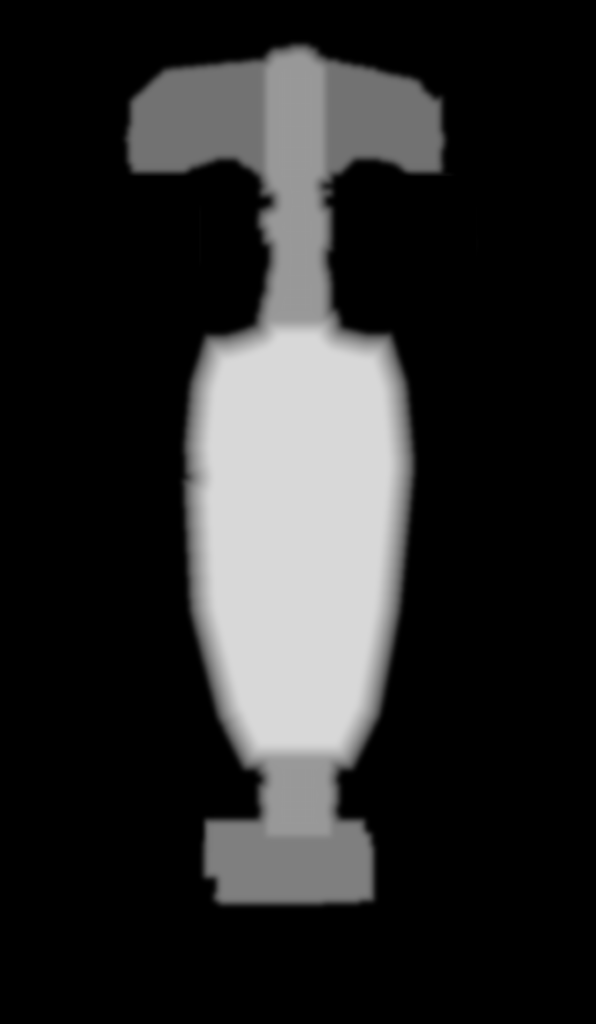
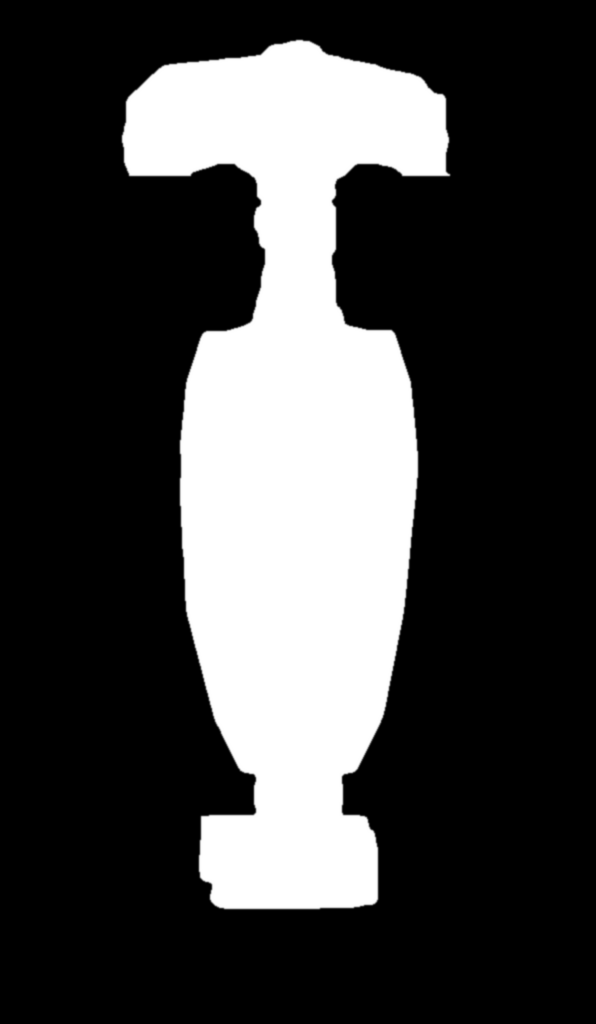
Crisp LEGO on the poster (no smudges) and more realistic LEGO pieces
- Relief maps rebuilt from the LEGO cutout silhouette as a near-vertical
  step instead of a soft ramp, so the photo no longer smears into blurry
  halos around the car; the LEGO sits on the poster like the real model
  in the reference videos, with a new soft drop shadow layer
  (<model>-sombra.png). The intro LEGO now stops exactly at relief
  height when it slots in, so it no longer intersects the poster.
- Bricks and plates are built like real parts: top, four walls and an
  open underside with anti-studs tubes, lathed studs with a rounded top
  edge, and the original smooth normals kept (no faceting). Pieces use
  a glossier ABS-like physical material with clearcoat.

Claude-Session: https://claude.ai/code/session_0152wLRBmtu3EhAGdcuZqTLU

Changed region(s): [[0.1812, 0.0312, 0.755, 0.9062]]

diff --git a/storefront-lego-f1/src/three/legoPieces.js b/storefront-lego-f1/src/three/legoPieces.js
@@ -17,38 +17,74 @@ function prep(g) {
   return out
 }
 
+// Stud con el borde de arriba redondeado (perfil torneado, como el real)
+const STUD_PROFILE = [
+  new THREE.Vector2(0, 0),
+  new THREE.Vector2(STUD_R, 0),
+  new THREE.Vector2(STUD_R, STUD_H - 0.05),
+  new THREE.Vector2(STUD_R - 0.015, STUD_H - 0.015),
+  new THREE.Vector2(STUD_R - 0.05, STUD_H),
+  new THREE.Vector2(0, STUD_H),
+]
 function studs(cols, rows, top) {
   const parts = []
   for (let i = 0; i < cols; i++)
     for (let j = 0; j < rows; j++) {
-      const s = new THREE.CylinderGeometry(STUD_R, STUD_R, STUD_H, 20)
-      s.translate(i - (cols - 1) / 2, top + STUD_H / 2, j - (rows - 1) / 2)
+      const s = new THREE.LatheGeometry(STUD_PROFILE, 22)
+      s.translate(i - (cols - 1) / 2, top, j - (rows - 1) / 2)
       parts.push(prep(s))
     }
   return parts
 }
 
+// Ladrillo/placa real: tapa arriba, cuatro paredes, hueco abajo con sus tubos
+// (se ve cuando la pieza gira en el aire). Las normales originales se conservan:
+// las aristas redondeadas brillan suave, sin facetas.
+const WALL = 0.12
 function brick(cols, rows, h = BRICK_H) {
-  const body = new RoundedBoxGeometry(cols - 0.02, h, rows - 0.02, 2, 0.05)
-  const g = mergeGeometries([prep(body), ...studs(cols, rows, h / 2)])
-  g.computeVertexNormals()
-  return g
+  const W = cols - 0.02
+  const D = rows - 0.02
+  const r = 0.045
+  const parts = [
+    new RoundedBoxGeometry(W, 0.14, D, 2, r).translate(0, h / 2 - 0.07, 0), // tapa
+    new RoundedBoxGeometry(W, h, WALL, 2, r).translate(0, 0, D / 2 - WALL / 2),
+    new RoundedBoxGeometry(W, h, WALL, 2, r).translate(0, 0, -D / 2 + WALL / 2),
+    new RoundedBoxGeometry(WALL, h, D, 2, r).translate(W / 2 - WALL / 2, 0, 0),
+    new RoundedBoxGeometry(WALL, h, D, 2, r).translate(-W / 2 + WALL / 2, 0, 0),
+  ]
+  // tubos de abajo: entre studs en piezas de 2 de ancho, varillas en las de 1
+  if (rows >= 2 && cols >= 2) {
+    for (let i = 0; i < cols - 1; i++)
+      for (let j = 0; j < rows - 1; j++)
+        parts.push(
+          new THREE.CylinderGeometry(0.4, 0.4, h - 0.14, 18, 1, true).translate(
+            i - (cols - 2) / 2,
+            -0.07,
+            j - (rows - 2) / 2,
+          ),
+        )
+  } else if (cols >= 2) {
+    for (let i = 0; i < cols - 1; i++)
+      parts.push(
+        new THREE.CylinderGeometry(0.15, 0.15, h - 0.14, 12).translate(
+          i - (cols - 2) / 2,
+          -0.07,
+          0,
+        ),
+      )
+  }
+  return mergeGeometries([...parts.map(prep), ...studs(cols, rows, h / 2)])
 }
 
 // Teja (tile): lisa, sin studs, con una ranura fina en la base
 function tile(cols, rows) {
-  const body = new RoundedBoxGeometry(cols - 0.02, PLATE_H, rows - 0.02, 2, 0.04)
-  const g = prep(body)
-  g.computeVertexNormals()
-  return g
+  return prep(new RoundedBoxGeometry(cols - 0.02, PLATE_H, rows - 0.02, 2, 0.04))
 }
 
 // Plato redondo 1x1 con su stud
 function roundPlate() {
   const body = new THREE.CylinderGeometry(0.49, 0.49, PLATE_H, 24)
-  const g = mergeGeometries([prep(body), ...studs(1, 1, PLATE_H / 2)])
-  g.computeVertexNormals()
-  return g
+  return mergeGeometries([prep(body), ...studs(1, 1, PLATE_H / 2)])
 }
 
 // Ladrillo en pendiente 2x2 (slope 45°): studs solo en la fila de atrás
@@ -69,9 +105,8 @@ function slope() {
   })
   body.translate(0, 0, -0.99)
   const st = studs(1, 2, BRICK_H / 2).map((g) => g.translate(-0.5, 0, 0))
-  const g = mergeGeometries([prep(body), ...st])
-  g.computeVertexNormals()
-  return g
+  body.computeVertexNormals()
+  return mergeGeometries([prep(body), ...st])
 }
 
 // Viga Technic en L (3x5) con agujeros
@@ -80,9 +115,7 @@ function lBeam() {
   const b = technicBeam(3).rotateZ(Math.PI / 2)
   a.translate(0, 0, 0)
   b.translate(-2, 1, 0)
-  const g = mergeGeometries([a, b])
-  g.computeVertexNormals()
-  return g
+  return mergeGeometries([a, b])
 }
 
 // Conector eje-pin: cilindro con collarín
@@ -91,7 +124,6 @@ function connector() {
   const b = new THREE.CylinderGeometry(0.44, 0.44, 0.3, 20)
   const g = mergeGeometries([prep(a), prep(b)])
   g.rotateZ(Math.PI / 2)
-  g.computeVertexNormals()
   return g
 }
 
@@ -192,9 +224,7 @@ function axle(len) {
 function pin() {
   const a = new THREE.CylinderGeometry(0.24, 0.24, 1.9, 16)
   const b = new THREE.CylinderGeometry(0.3, 0.3, 0.14, 16)
-  const g = mergeGeometries([prep(a), prep(b)])
-  g.computeVertexNormals()
-  return g
+  return mergeGeometries([prep(a), prep(b)])
 }
 
 let cache

diff --git a/storefront-lego-f1/src/three/LedFrame.jsx b/storefront-lego-f1/src/three/LedFrame.jsx
@@ -156,7 +156,8 @@ function usePoster(model) {
 // (mapa de alturas `*-relieve.png`), así las llantas, la carrocería y los alerones
 // sobresalen del fondo. La foto se ve con sus colores reales (emisiva, sin tone mapping)
 // y la luz de la escena sombrea los costados del relieve.
-const RELIEF_DEPTH = 0.26
+// El LEGO se levanta del póster con borde recto (como el modelo real colgado en el cuadro)
+export const RELIEF_DEPTH = 0.22
 // En pantallas chicas: texturas 2K y menos vértices, para que el celular vaya fluido
 const SMALL_SCREEN =
   typeof window !== 'undefined' && Math.min(window.innerWidth, window.innerHeight) < 700
@@ -353,13 +354,15 @@ function PhotoPoster({
   sideMat,
   emptySrc,
   emptyMat,
+  shadowSrc,
   showCar = true,
 }) {
   const maxAnisotropy = useThree((state) => state.gl.capabilities.getMaxAnisotropy())
-  const [texture, heightMap, emptyTex] = useTexture([
+  const [texture, heightMap, emptyTex, shadowTex] = useTexture([
     SMALL_SCREEN && srcSmall ? srcSmall : src,
     relief ?? src,
     emptySrc ?? src,
+    shadowSrc ?? relief ?? src,
   ])
   useMemo(() => {
     texture.colorSpace = THREE.SRGBColorSpace
@@ -396,6 +399,19 @@ function PhotoPoster({
   return (
     <>
       <mesh position={[0, 0, 0.002]} geometry={geometry} material={material} />
+      {/* Sombra real del LEGO sobre el póster: la luz viene de arriba a la izquierda */}
+      {shadowSrc && (
+        <mesh position={[width * 0.018, -height * 0.014, 0.0035]} renderOrder={1}>
+          <planeGeometry args={[width, height]} />
+          <meshBasicMaterial
+            color="#000000"
+            alphaMap={shadowTex}
+            transparent
+            opacity={0.62}
+            depthWrite={false}
+          />
+        </mesh>
+      )}
       {wheels?.map((box, i) => (
         <Tire
           key={i}
@@ -654,6 +670,7 @@ export function LedFrame({
           treadMat={treadMat}
           sideMat={sideMat}
           emptySrc={model.posterEmpty}
+          shadowSrc={model.shadow}
           emptyMat={emptyMat}
           showCar={showCar}
         />

diff --git a/storefront-lego-f1/src/three/Intro.jsx b/storefront-lego-f1/src/three/Intro.jsx
@@ -3,7 +3,7 @@ import { useFrame, useThree } from '@react-three/fiber'
 import { useTexture } from '@react-three/drei'
 import * as THREE from 'three'
 import { legoGeometries, nearestLegoColor, PIECE_MIX } from './legoPieces.js'
-import { FRAME_H } from './LedFrame.jsx'
+import { FRAME_H, RELIEF_DEPTH } from './LedFrame.jsx'
 
 // Entrada de la página (boceto aprobado):
 //   1. Los tres autos F1 reales, vistos desde arriba (como en el video aprobado), caen
@@ -268,10 +268,14 @@ function LegoBurst({ cars, timeline }) {
   const material = useMemo(
     () =>
       new THREE.MeshPhysicalMaterial({
-        roughness: 0.24,
+        // plástico ABS de LEGO: brillante, con reflejo nítido
+        roughness: 0.2,
         metalness: 0,
-        clearcoat: 0.3,
-        clearcoatRoughness: 0.12,
+        clearcoat: 0.55,
+        clearcoatRoughness: 0.08,
+        ior: 1.49,
+        specularIntensity: 0.9,
+        envMapIntensity: 1.2,
       }),
     [],
   )
@@ -438,7 +442,8 @@ function LegoCutout({ cutout, x, width, height, timeline }) {
     mat.current.opacity = span(t, INTRO.reformed - 0.2, INTRO.reformed + 0.35)
     // entra al cuadro con golpe seco (aceleración al final)
     const p = easeInCubic(span(t, INTRO.integrate, INTRO.integrated))
-    g.position.z = THREE.MathUtils.lerp(Z_FLOAT, 0.14, p)
+    // se detiene justo a la altura del relieve del cuadro: encaja sin atravesarlo
+    g.position.z = THREE.MathUtils.lerp(Z_FLOAT, RELIEF_DEPTH + 0.004, p)
     // se oscurece al entrar, igual que el cuadro con las luces aún apagadas
     mat.current.color.setScalar(THREE.MathUtils.lerp(1, 0.35, p))
   })

diff --git a/storefront-lego-f1/src/lib/models.js b/storefront-lego-f1/src/lib/models.js
@@ -19,6 +19,7 @@ export const MODELS = {
     sidePhoto: '/cuadros/mercedes-lateral-4k.webp',
     sidePhotoSmall: '/cuadros/mercedes-lateral-2k.webp',
     relief: '/cuadros/mercedes-relieve.png', // mapa de alturas: blanco = sobresale más
+    shadow: '/cuadros/mercedes-sombra.png', // sombra suave del LEGO sobre el póster
     // Entrada: auto LEGO recortado (con transparencia) y póster sin el auto
     cutout: '/cuadros/mercedes-auto.webp',
     // Entrada: auto F1 real visto desde arriba (foto de estudio recortada, escalada con IA)
@@ -67,6 +68,7 @@ export const MODELS = {
     sidePhoto: '/cuadros/redbull-lateral-4k.webp',
     sidePhotoSmall: '/cuadros/redbull-lateral-2k.webp',
     relief: '/cuadros/redbull-relieve.png', // mapa de alturas: blanco = sobresale más
+    shadow: '/cuadros/redbull-sombra.png', // sombra suave del LEGO sobre el póster
     // Entrada: auto LEGO recortado (con transparencia) y póster sin el auto
     cutout: '/cuadros/redbull-auto.webp',
     // Entrada: auto F1 real visto desde arriba (foto de estudio recortada, escalada con IA)
@@ -115,6 +117,7 @@ export const MODELS = {
     sidePhoto: '/cuadros/ferrari-lateral-4k.webp',
     sidePhotoSmall: '/cuadros/ferrari-lateral-2k.webp',
     relief: '/cuadros/ferrari-relieve.png', // mapa de alturas: blanco = sobresale más
+    shadow: '/cuadros/ferrari-sombra.png', // sombra suave del LEGO sobre el póster
     // Entrada: auto LEGO recortado (con transparencia) y póster sin el auto
     cutout: '/cuadros/ferrari-auto.webp',
     // Entrada: auto F1 real visto desde arriba (foto de estudio recortada, escalada con IA)
